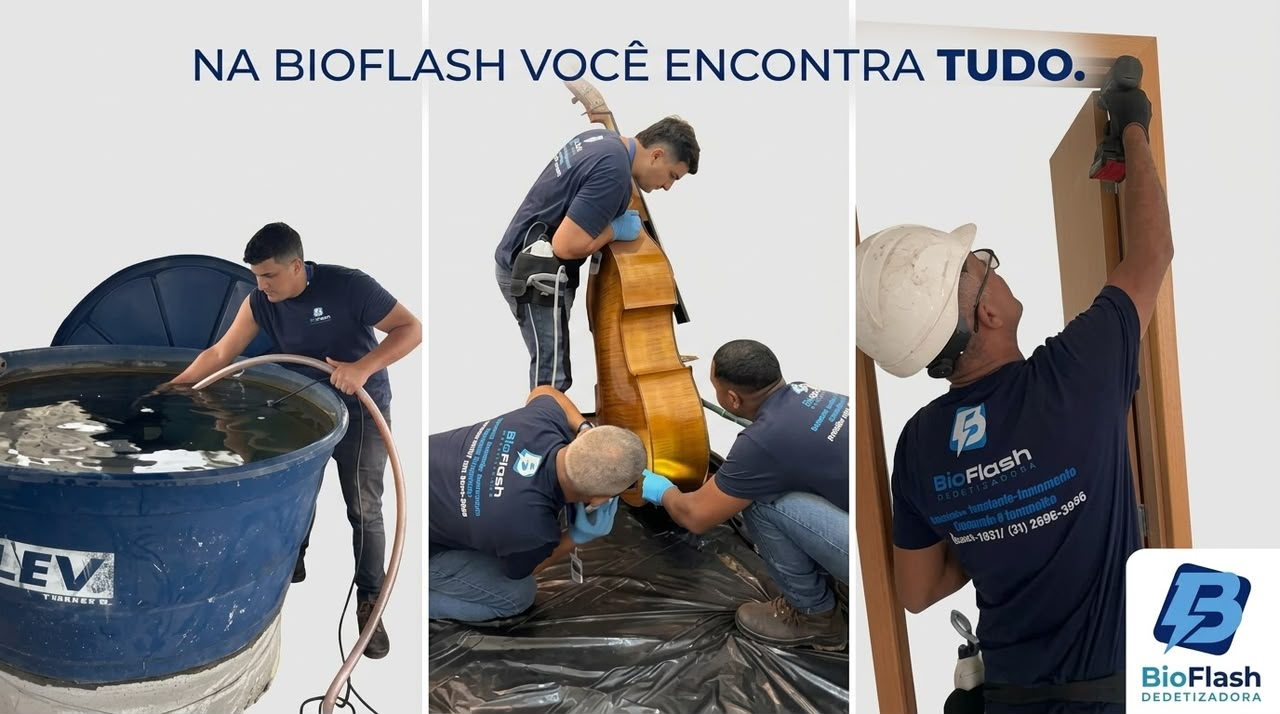
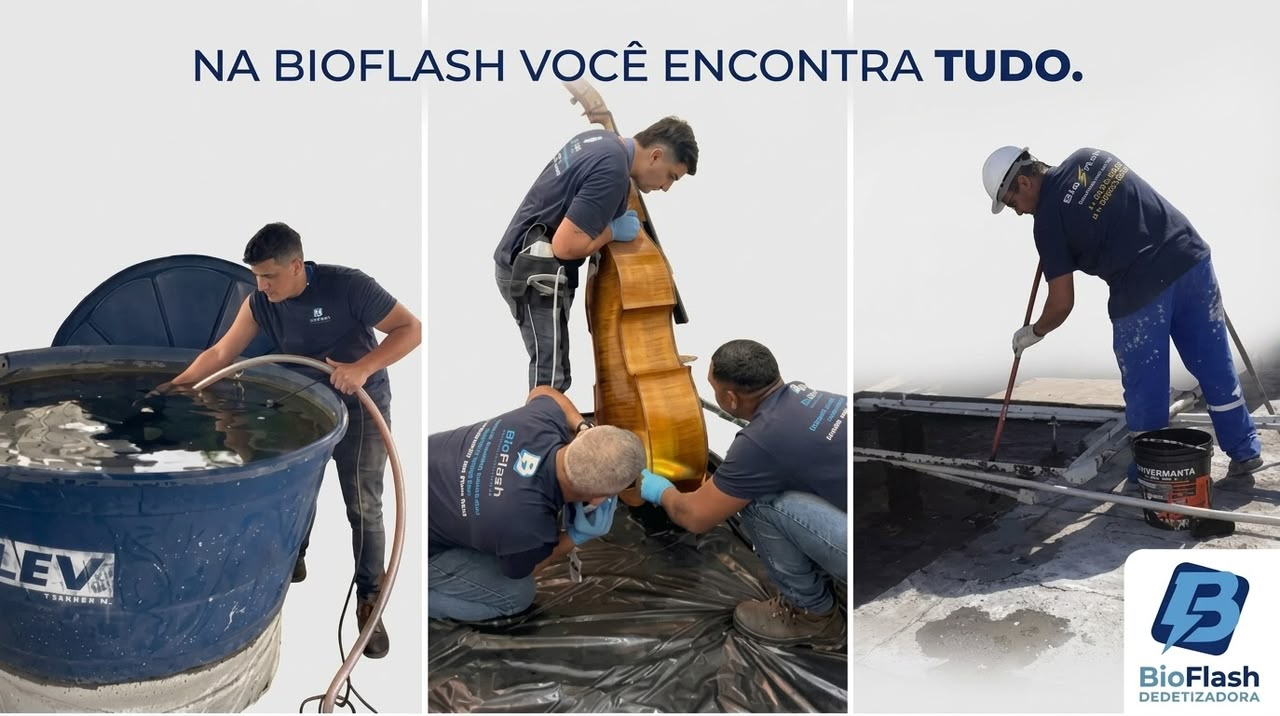
add tel, endereço e new image

diff --git a/index.html b/index.html
@@ -314,11 +314,11 @@
       <div class="footer__col" id="footer-contact">
         <h3>Contato</h3>
         <ul>
-          <li>Telefone: <span data-field="phone">(00) 0000-0000</span></li>
+          <li>Telefone: <span>(21) 2696-3936 </span></li>
           <li>WhatsApp: <span data-field="whatsapp">(00) 00000-0000</span></li>
           <li>E-mail: <span data-field="email">contato@bioflashfacility.com.br</span></li>
-          <li>Endereço: <span data-field="address">A definir</span></li>
-          <li>Atendimento de emergência: <span data-field="emergency">A definir</span></li>
+          <li>Endereço: <span>Rua Cesário, 190 Mesquita RJ</span></li>
+          
         </ul>
         <p class="footer__note">* Dados de contato ainda não fornecidos pelo cliente — placeholders configuráveis em js/config.js.</p>
       </div>
